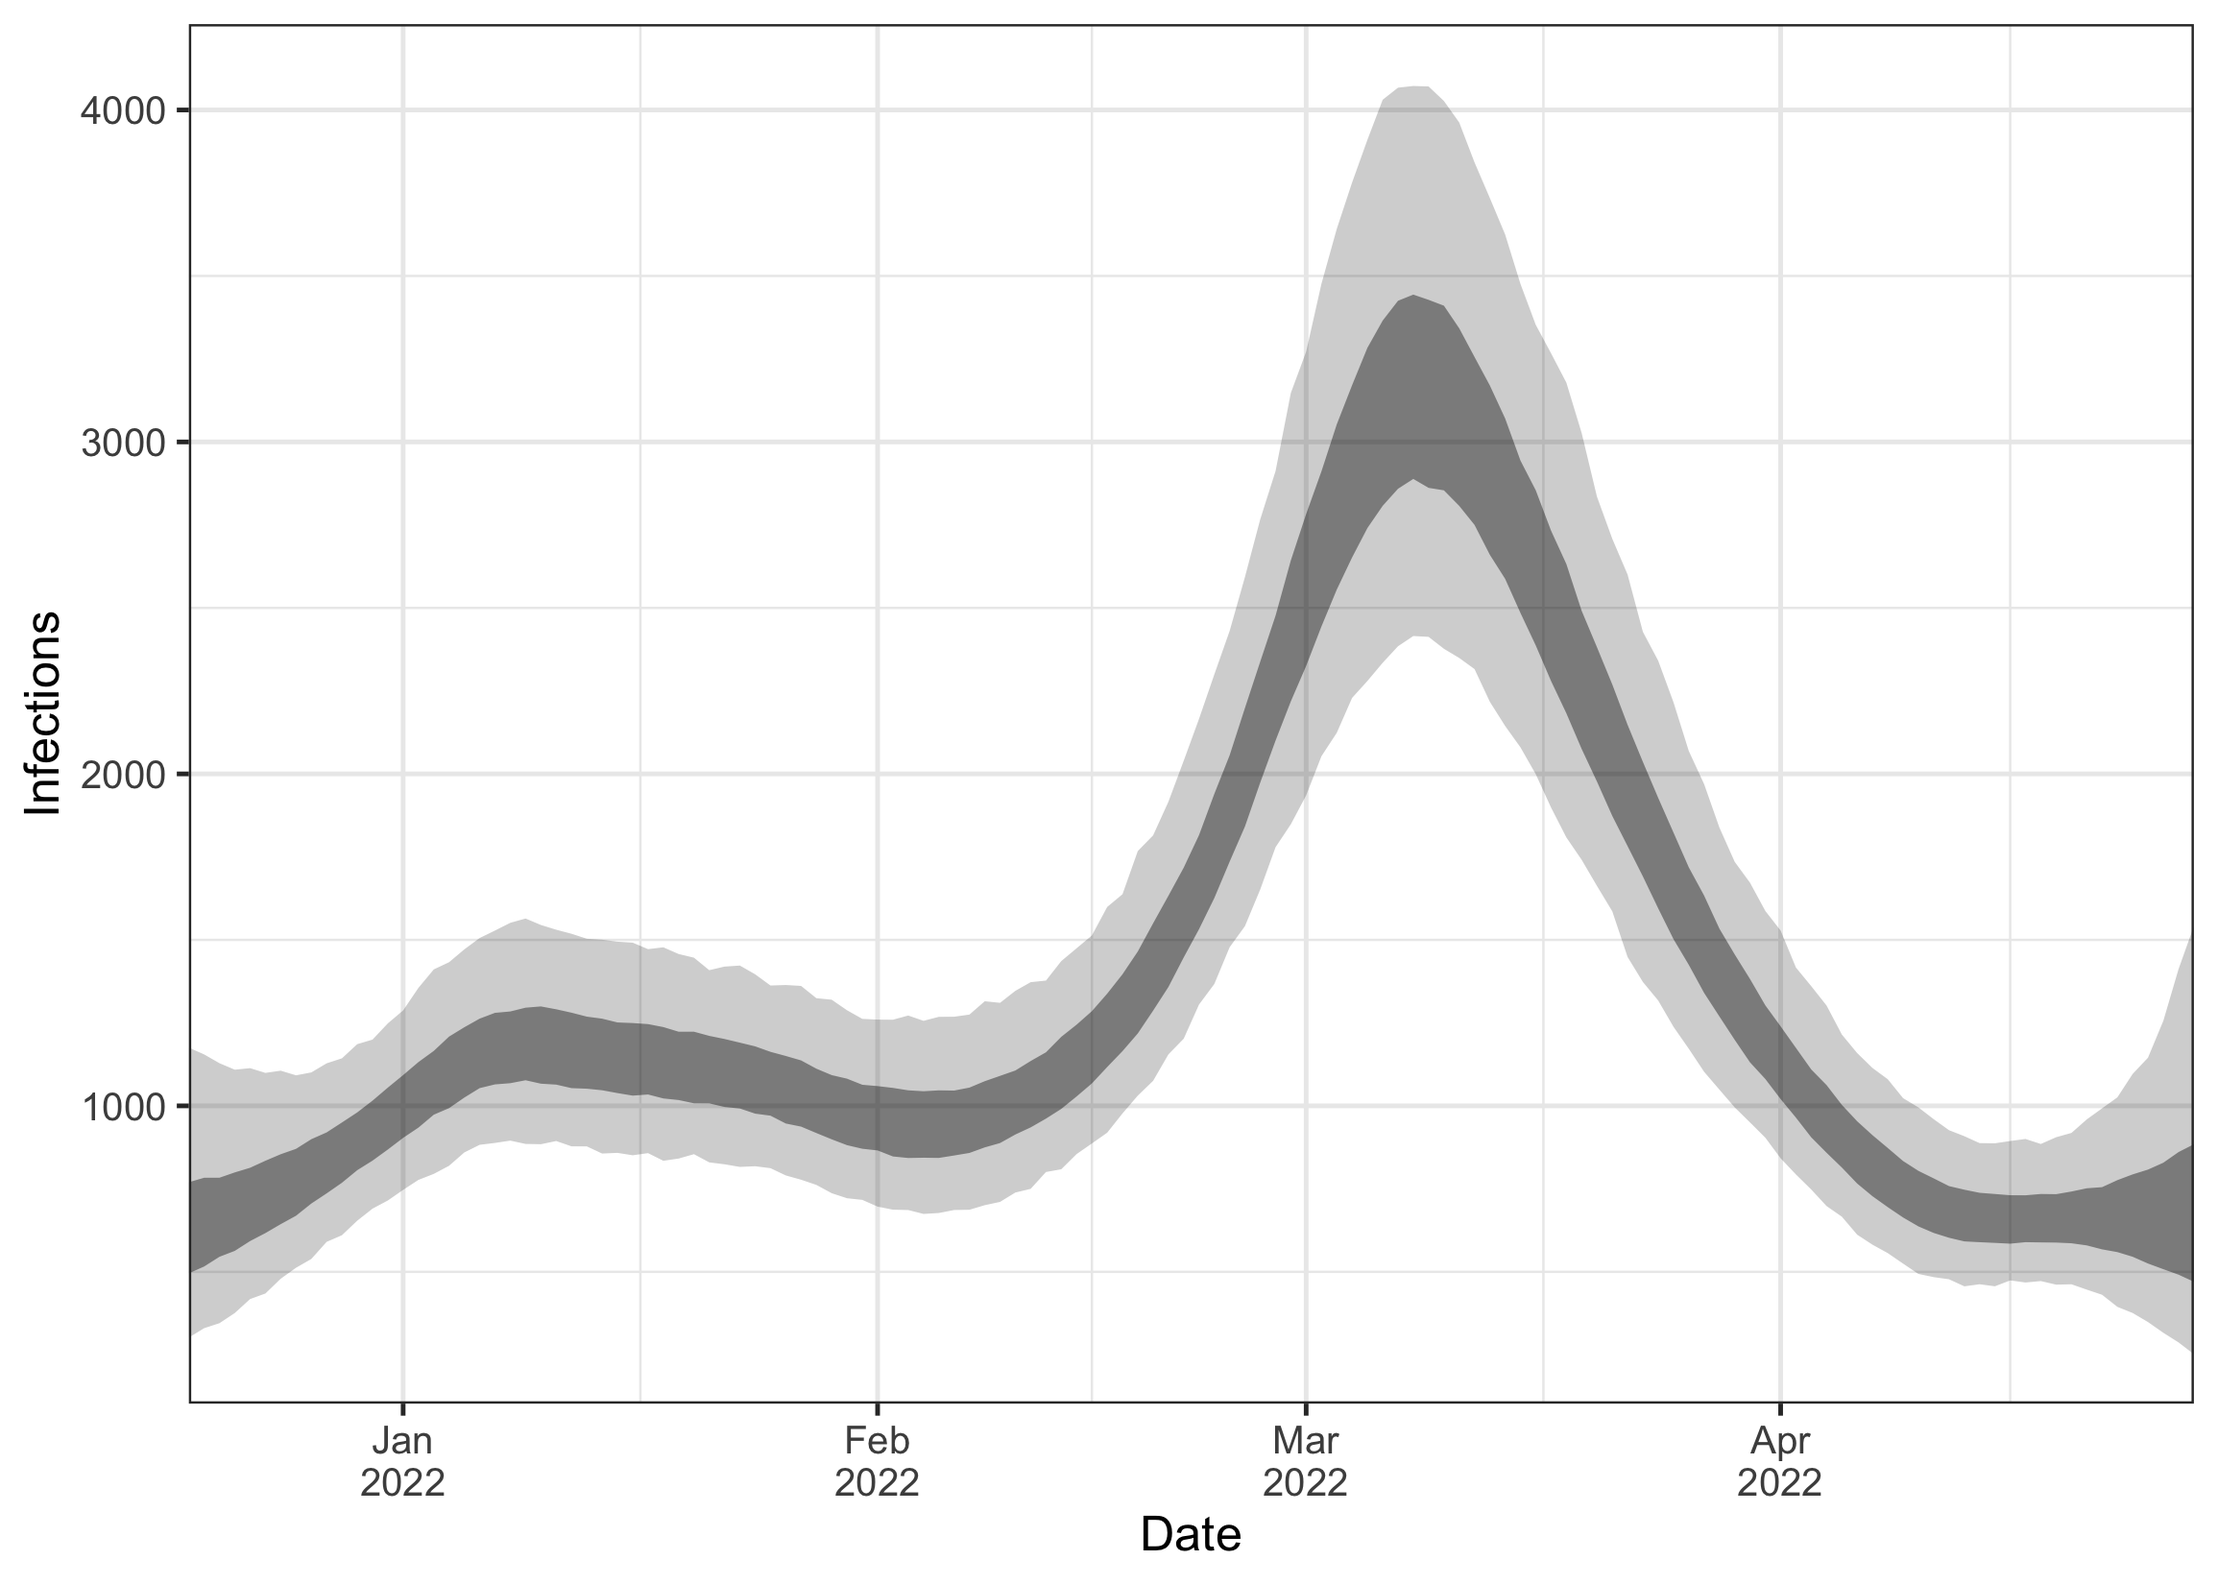
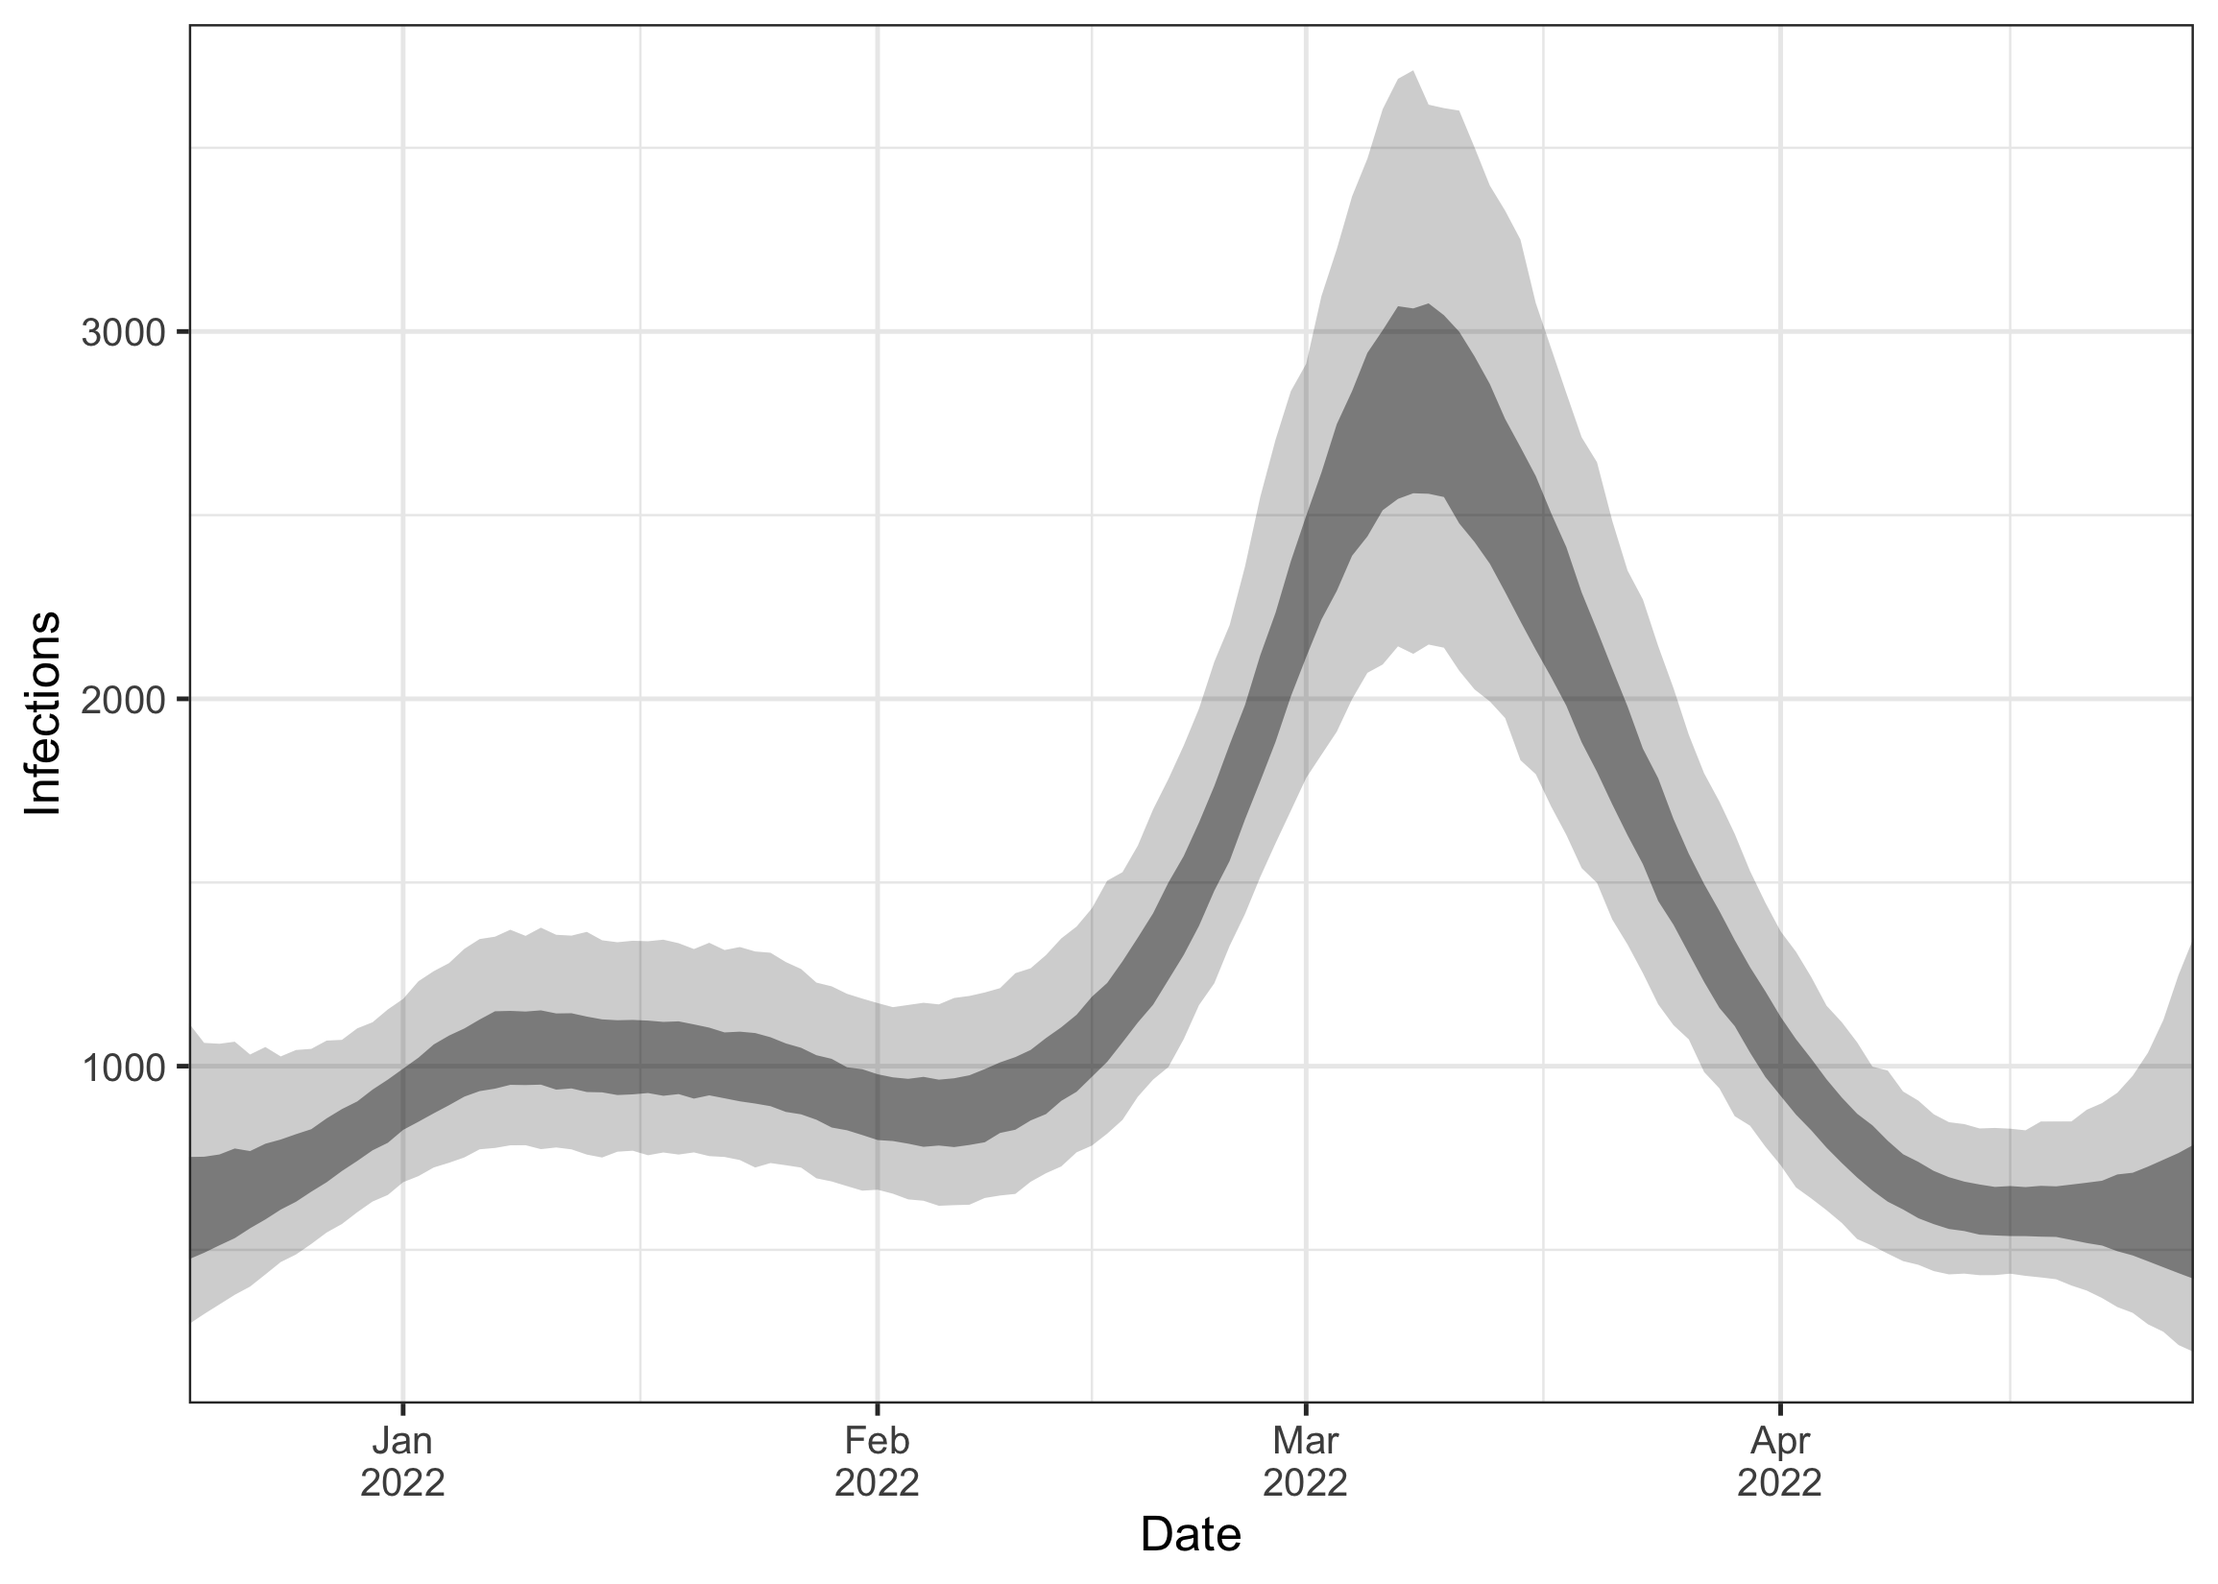
Update README

diff --git a/README.md b/README.md
@@ -113,8 +113,8 @@ data_zurich <- SARS_CoV_2_Zurich
 #### Inspect the data
 
 The dataset contains `measurements`, `flows` and metadata about `units`.
-There is also data about confirmed cases in the catchment area, which we
-do not need explicitly, but can use to inform some of our prior
+There is also data about confirmed `cases` in the catchment area, which
+we do not need explicitly, but can use to inform some of our prior
 assumptions.
 
 ``` r
@@ -137,7 +137,9 @@ str(data_zurich)
 #>   ..$ flow         : chr "mL/day"
 ```
 
-The measurements data contains daily viral concentration measurements
+##### Measurements
+
+The `measurements` data contains daily viral concentration measurements
 (in gc/mL, gc = gene copies) for the SARS-CoV-2 N1 gene at the
 wastewater treatment plant in Zurich. Some days have missing
 measurements, but this is no problem: `EpiSewer` naturally accounts for
@@ -190,11 +192,13 @@ head(measurements_sparse, 20)
 #> 20: 2022-03-10     2128.1925 Thursday
 ```
 
-The flows data tracks the daily flow (in mL/day) at the treatment plant
-in Zurich. The flow data will be used to normalize the concentration
-measurements. This helps to account for environmental factors such as
-rainfall. It is important that the flow uses the same volume unit as the
-concentration (mL here in both cases).
+##### Flows
+
+The `flows` data tracks the daily flow (in mL/day) at the treatment
+plant in Zurich. The flow data will be used to normalize the
+concentration measurements. This helps to account for environmental
+factors such as rainfall. It is important that the flow uses the same
+volume unit as the concentration (mL here in both cases).
 
 ``` r
 data_zurich$flows
@@ -212,27 +216,60 @@ data_zurich$flows
 #> 120: 2022-04-30 2.08685e+11
 ```
 
-Note: In contrast to the concentration measurements, the flow data must
-not have missing values. If flow information is missing for certain
-days, make sure to impute it using a suitable method before passing it
-to `EpiSewer`.
+Note: It’s not a problem if you only have flow data on dates with
+measurements. However, for each measured date, there must also be a flow
+value. If flow information is missing for measured dates, please make
+sure to impute it using a suitable method before passing it to
+`EpiSewer` (or drop those dates).
+
+##### Cases
+
+Finally, if we have case data available, we can also pass this to
+`EpiSewer.` This is then used to calibrate the model so that the
+estimated number of infections approximately matches the observed number
+of cases.
+
+``` r
+data_zurich$cases
+#>            date     cases
+#>   1: 2022-01-01        NA
+#>   2: 2022-01-02        NA
+#>   3: 2022-01-03 1519.5313
+#>   4: 2022-01-04 1727.3722
+#>   5: 2022-01-05 1638.5321
+#>  ---                     
+#> 116: 2022-04-26  211.9338
+#> 117: 2022-04-27  214.9822
+#> 118: 2022-04-28  206.2498
+#> 119: 2022-04-29  151.9567
+#> 120: 2022-04-30  134.8545
+```
+
+If you don’t have case data: don’t worry! In general, the assumed
+shedding load per case does not have a large effect on the effective
+reproduction number, and `EpiSewer` will use a robust default. You just
+have to keep in mind that the absolute number of infections estimated by
+`EpiSewer` should not be interpreted as true incidence or prevalence.
 
 #### Gather the data
 
-If the measurements data and flow data are stored in separate variables,
-we can combine them using the helper function `sewer_data()`. We here
-use our artificially sparse measurements.
+We combine the `measurements` data and `flow` data using the helper
+function `sewer_data()`. We here use our artificially sparse
+measurements (only Mondays and Thursdays). For calibration purposes, we
+also supply the case data, as explained above.
 
 ``` r
-ww_data <- sewer_data(measurements = measurements_sparse, flows = data_zurich$flows)
+ww_data <- sewer_data(
+  measurements = measurements_sparse,
+  flows = data_zurich$flows,
+  cases = data_zurich$cases # cases are optional
+  )
 ```
 
 ### Assumptions
 
 In order to estimate the effective reproduction number from wastewater
-concentration measurements, we must make a number of assumptions.
-
-#### Distributions
+concentration measurements, we have to make a number of assumptions.
 
 - **Generation time distribution**: Distribution of the time between a
   primary infection and its resulting secondary infections
@@ -249,63 +286,10 @@ specific functions to obtain discretized versions of popular continuous
 probability distributions.
 
 ``` r
-generation_dist <- get_discrete_gamma_shifted(gamma_mean = 3, gamma_sd = 2.4, maxX = 12)
-incubation_dist <- get_discrete_gamma(gamma_shape = 8.5, gamma_scale = 0.4, maxX = 10)
-shedding_dist <- get_discrete_gamma(gamma_shape = 0.929639, gamma_scale = 7.241397, maxX = 30)
-```
-
-#### Shedding load per case
-
-In addition to the shedding load distribution, we also require a scaling
-factor that describes how much total viral material is shed by the
-average infected individual and is detectable at the sampling site. We
-call this scaling factor *shedding load per case* because it scales the
-estimated number of cases/infections in our model. The shedding load per
-case (gc/person) depends both on biological factors as well as on the
-sewage system.
-
-Fortunately, if we are only interested in the effective reproduction
-number, a rough estimate for the shedding load per case is sufficient:
-getting it wrong cannot strongly bias the reproduction number estimates,
-and will distort the uncertainty of estimates only in rather extreme
-cases.
-
-If we also have case data available (ideally catchment-specific, or we
-might down-scale case counts from a higher aggregation level to roughly
-the size of our catchment), then we can use the function
-`suggest_load_per_case` to obtain a rough estimate of a suitable
-shedding load per case. The argument `ascertainment_prop` can be used to
-account for underdetection of infections. For simplicity, we here assume
-`ascertainment_prop=1`, meaning that 100% of infections become confirmed
-cases (which is often not realistic).
-
-``` r
-suggest_load_per_case(
-  data_zurich$measurements,
-  data_zurich$cases,
-  data_zurich$flows,
-  ascertainment_prop = 1
-)
-#> [1] 1.3e+11
-```
-
-Hence we will assume `1e+11 gc/person` as the average shedding load.
-
-``` r
-load_per_case <- 1e+11
-```
-
-#### Combining all assumptions
-
-The above assumptions can be conveniently recorded in a list by using
-the function `sewer_assumptions()`.
-
-``` r
 ww_assumptions <- sewer_assumptions(
-  generation_dist = generation_dist,
-  incubation_dist = incubation_dist,
-  shedding_dist = shedding_dist,
-  load_per_case = load_per_case
+  generation_dist = get_discrete_gamma_shifted(gamma_mean = 3, gamma_sd = 2.4, maxX = 12),
+  incubation_dist = get_discrete_gamma(gamma_shape = 8.5, gamma_scale = 0.4, maxX = 10),
+  shedding_dist = get_discrete_gamma(gamma_shape = 0.929639, gamma_scale = 7.241397, maxX = 30)
 )
 ```
 
@@ -321,14 +305,15 @@ Hamiltonian MCMC sampling via stan, using 4 chains with 500 warmup and
 Stan regularly provides updates about the progress of the sampler. The
 overall runtime will depend on your hardware resources, the size of the
 data, the complexity of the model used, and how well the model actually
-fits the data.
+fits the data. On a MacBook Pro (2 GHz Quad-Core Intel Core i5) the
+example below takes about 4 minutes to run.
 
 ``` r
 options(mc.cores = 4) # allow stan to use 4 cores, i.e. one for each chain
 ww_result <- EpiSewer(
   data = ww_data,
   assumptions = ww_assumptions,
-  fit_opts = set_fit_opts(sampler = sampler_stan_mcmc(iter_warmup = 500, iter_sampling = 500, chains = 4))
+  fit_opts = set_fit_opts(sampler = sampler_stan_mcmc(iter_warmup = 500, iter_sampling = 500, chains = 4, seed = 42))
 )
 ```
 
@@ -414,11 +399,9 @@ plot_load(ww_result)
 
 <img src="man/figures/README-load-1.png" width="100%" /> Next, we plot
 the estimated number of infections over time. The time series follows a
-very similar trend as the load. Using our assumed shedding load per case
-of 1e11, we can see that the peak load (roughly 3.3e14) corresponds to
-3.3e14/1e11=3300 infections. The peak in infections shown below seems to
-be a bit higher, and it is also a bit earlier. The reason for this
-difference is that infected individuals only begin shedding after their
+very similar trend as the load. Compared to the load, the peak in
+infections seems to be a bit more spiked, and also a bit earlier. This
+is because infected individuals only begin shedding after their
 infection and then shed over a longer period of time (as defined by the
 incubation period and shedding load distribution). This makes the load a
 slightly delayed and blurred signal of the infections.
@@ -427,10 +410,25 @@ slightly delayed and blurred signal of the infections.
 plot_infections(ww_result)
 ```
 
-<img src="man/figures/README-infections-1.png" width="100%" /> We can
-also compare the prior and posterior distribution for certain parameters
-of the model to see how much they were informed by the data. For
-example, we can inspect the coefficient of variation (CV) of the
+<img src="man/figures/README-infections-1.png" width="100%" />
+
+Note that because we supplied case data, the estimated infections
+*rougly* match the case numbers (plotted in blue below). Nevertheless,
+the infections plot shown here should only be used for diagnostic
+purposes, for example to ensure that the trend looks sensible and that
+the scale of infections is not unrealistic (not millions of infections
+or 0.01 infections per day). Please do **not** interpret the estimated
+number of infections in terms of true absolute incidence or prevalence.
+
+``` r
+plot_infections(ww_result) + geom_step(data = data_zurich$cases, aes(x = date, y = cases), color = "#000080")
+```
+
+<img src="man/figures/README-infections_with_cases-1.png" width="100%" />
+
+We can also compare the prior and posterior distribution for certain
+parameters of the model to see how much they were informed by the data.
+For example, we can inspect the coefficient of variation (CV) of the
 observation noise:
 
 ``` r
@@ -484,7 +482,7 @@ ww_result$job$model
 #> shedding
 #>  |- incubation_dist_assume
 #>  |- shedding_dist_assume
-#>  |- load_per_case_assume
+#>  |- load_per_case_calibrate
 #>  |- load_variation_estimate
 #> 
 #> infections
@@ -516,18 +514,18 @@ number.
 
 ``` r
 ww_result$summary$R
-#>            date     mean    median lower_0.95 lower_0.5 upper_0.5 upper_0.95
-#>   1: 2021-12-06 1.057070 1.0534600  0.7180864 0.9475715  1.164473   1.389037
-#>   2: 2021-12-07 1.057873 1.0568600  0.7347721 0.9507918  1.159447   1.373973
-#>   3: 2021-12-08 1.058745 1.0567550  0.7454529 0.9565968  1.155763   1.369990
-#>   4: 2021-12-09 1.059704 1.0586950  0.7618145 0.9586132  1.154875   1.363541
-#>   5: 2021-12-10 1.060766 1.0602150  0.7736401 0.9642983  1.151640   1.356843
-#>  ---                                                                        
-#> 140: 2022-04-24 1.002303 0.9965760  0.7710008 0.9179753  1.078525   1.260889
-#> 141: 2022-04-25 1.001677 0.9931750  0.7660747 0.9120835  1.084307   1.282745
-#> 142: 2022-04-26 1.001139 0.9912940  0.7396670 0.9065590  1.090285   1.300052
-#> 143: 2022-04-27 1.001043 0.9908050  0.7076593 0.8989483  1.095713   1.332602
-#> 144: 2022-04-28 1.001217 0.9886565  0.6802538 0.8908200  1.102902   1.366871
+#>            date      mean    median lower_0.95 lower_0.5 upper_0.5 upper_0.95
+#>   1: 2021-12-06 1.0497105 1.0440850  0.7324020 0.9372597  1.152850   1.395459
+#>   2: 2021-12-07 1.0504627 1.0428250  0.7470177 0.9427265  1.150043   1.380040
+#>   3: 2021-12-08 1.0513557 1.0414700  0.7572534 0.9485155  1.150755   1.377987
+#>   4: 2021-12-09 1.0523994 1.0445300  0.7605042 0.9530230  1.149892   1.369603
+#>   5: 2021-12-10 1.0536019 1.0476200  0.7645480 0.9585617  1.151843   1.366598
+#>  ---                                                                         
+#> 140: 2022-04-24 0.9908783 0.9840755  0.7743726 0.9103605  1.068210   1.238869
+#> 141: 2022-04-25 0.9908823 0.9864830  0.7554894 0.9075050  1.070715   1.259401
+#> 142: 2022-04-26 0.9908275 0.9854005  0.7305369 0.8984277  1.075215   1.288115
+#> 143: 2022-04-27 0.9906875 0.9831945  0.7067889 0.8923962  1.079940   1.311145
+#> 144: 2022-04-28 0.9906861 0.9843720  0.6770662 0.8848575  1.089002   1.357520
 #>          type seeding
 #>   1: estimate    TRUE
 #>   2: estimate    TRUE
@@ -583,7 +581,7 @@ ww_result$fitted$diagnostic_summary()
 #> [1] 0 0 0 0
 #> 
 #> $ebfmi
-#> [1] 0.9085252 0.8085946 0.9519023 0.9128638
+#> [1] 1.0296476 0.9815957 1.0001229 0.8657642
 ```
 
 Finally, the `checksums` attribute gives us several checksums that
@@ -598,14 +596,14 @@ ww_result$checksums
 #> [1] "26d196fc076d5a62250ef75adfafc374"
 #> 
 #> $input
-#> [1] "67b770f362109ab2c1dac1ec3005cc82"
+#> [1] "9badc2ce7121173440674cddd2983edc"
 #> 
 #> $fit_opts
-#> [1] "0b699761abddab7374683c99704ac469"
+#> [1] "5309bbbc3cd1cc109eac60d2fc82de45"
 #> 
 #> $results_opts
 #> [1] "e92f83d0ca5d22b3bb5849d62c5412ee"
 #> 
 #> $init
-#> [1] "1dd36391cea4ba7b2e97de06c36e8048"
+#> [1] "1d9c76935ccd48de3825db5a0a09e848"
 ```
